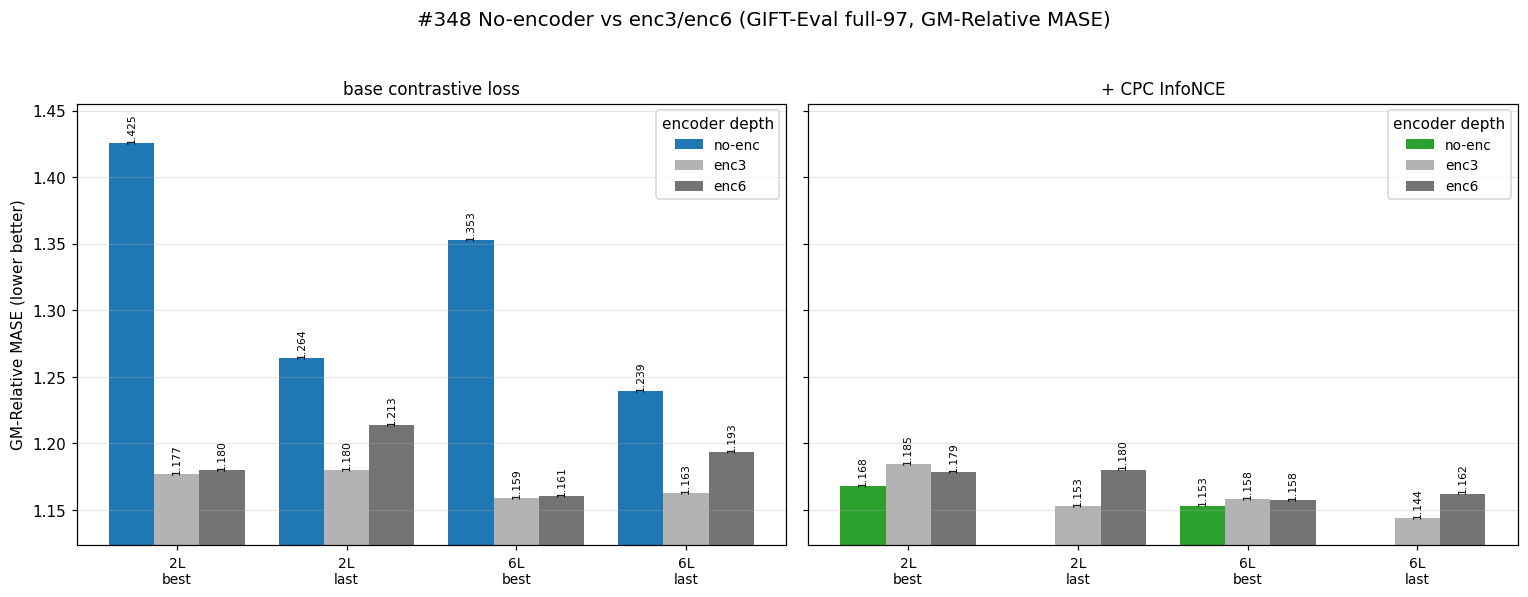
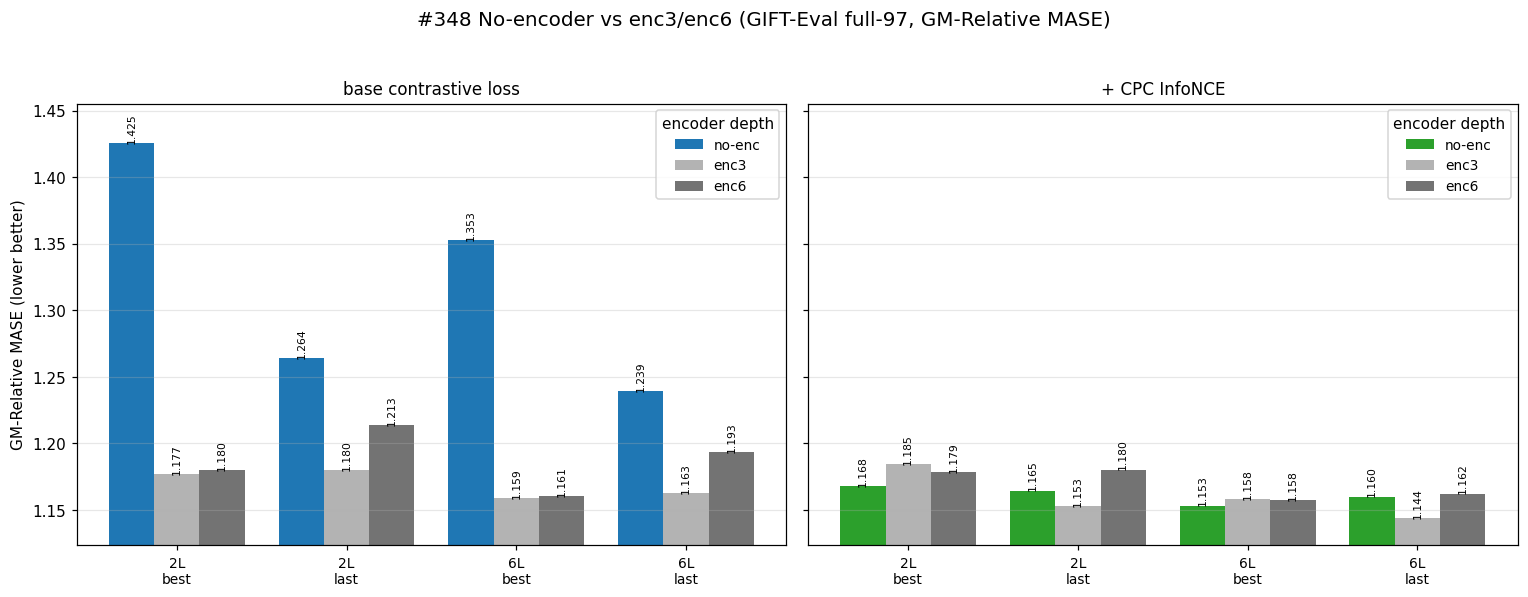
exp(#348): final report — CPC substitutes for the encoder
All 8 cells. Removing the encoder reliably degrades the plain-contrastive arm
(best +0.19-0.25, last +0.05-0.08 GM, all CIs>0); with the CPC term it is neutral
(best 4/4 ns, last 3/4 ns). Adding CPC to the no-encoder backbone improves GM
reliably at every checkpoint (best -0.20/-0.26, last -0.08/-0.10) — vs ~0.02 with
the encoder. Mechanism: the CPC term stays active (~3) without the encoder rather
than collapsing to ~0. Report + final gm-ladder/dynamics plots + gm/pairwise CSVs.

Changed region(s): [[0.6459, 0.8141, 0.7075, 0.9347], [0.8613, 0.8141, 0.9228, 0.9347]]

diff --git a/experiments/2026-06-15_no_encoder_redo/no_encoder_redo.md b/experiments/2026-06-15_no_encoder_redo/no_encoder_redo.md
@@ -54,7 +54,7 @@ GM-Relative MASE (GIFT-Eval full-97); encoder depth 0 = no-encoder (this work),
 | base, **no-enc** | **1.425 / 1.264** | **1.353 / 1.239** |
 | base, enc3 | 1.177 / 1.180 | 1.159 / 1.163 |
 | base, enc6 | 1.180 / 1.213 | 1.161 / 1.193 |
-| +CPC, **no-enc** | **1.168 / _TBD_** | **1.153 / _TBD_** |
+| +CPC, **no-enc** | **1.168 / 1.165** | **1.153 / 1.160** |
 | +CPC, enc3 | 1.185 / 1.153 | 1.158 / 1.144 |
 | +CPC, enc6 | 1.179 / 1.180 | 1.158 / 1.162 |
 
@@ -70,22 +70,64 @@ all reliably worse; the last-checkpoint gaps are smaller but also all above zero
 (+0.05…+0.08).
 
 **With the CPC term, removing the encoder is neutral.** Δ = GM(no-enc +CPC) −
-GM(encoder'd +CPC), best-loss: vs enc3 −0.017 (2L) / −0.005 (6L); vs enc6 −0.011
-(2L) / −0.004 (6L) — all four 90% intervals straddle zero.
+GM(encoder'd +CPC): at best-loss all four 90% intervals straddle zero (vs enc3
+−0.017/−0.005, vs enc6 −0.011/−0.004 for 2L/6L); at the last checkpoint three of
+four straddle zero and the fourth is a marginal +0.016 vs enc3·6L. So the
+no-encoder +CPC backbone sits within noise of its encoder'd counterparts at both
+checkpoints.
 
 **The CPC term is what closes the gap.** Adding CPC to the *no-encoder* backbone
-(base → +CPC) improves best-loss GM by **−0.258 (−0.325, −0.200)** at 2L and
-**−0.199 (−0.250, −0.156)** at 6L — both reliable, and an order of magnitude
-larger than the ~0.02 the same term bought *with* the encoder in #344.
+(base → +CPC) improves GM **reliably at every checkpoint**: best-loss
+**−0.258 (−0.325, −0.200)** at 2L and **−0.199 (−0.250, −0.156)** at 6L; last
+−0.099 (2L) and −0.079 (6L), all 90% intervals below zero. The best-loss effect
+is an order of magnitude larger than the ~0.02 the same term bought *with* the
+encoder in #344.
 
-## Late-training stability
+## Why: without the encoder the CPC term no longer vanishes
 
 ![Training dynamics, log-log. Solid = no-encoder (blue base / red +CPC), dashed =
-enc6 reference (#344).](plots/training_dynamics.png)
+enc6 reference (#344). Panel 2 is the CPC term: the no-encoder +CPC curve (red)
+stays elevated (~3) for the whole run, whereas with the encoder (orange dashed)
+it collapses to ~0 by step ~1,000. Panels 1/6/8 (contrastive reference loss,
+1−R², 1−AUC): the no-encoder +CPC arm (red) sits well below the no-encoder base
+arm (blue) throughout.](plots/training_dynamics.png)
 
-_Last-checkpoint cpc cells completing; this section is filled once the two
-no-encoder +CPC last evals land (does CPC reverse the base arm's best→last
-behaviour without the encoder, as it did with it?)._
+The mechanism is visible in the CPC term itself (panel 2). **With** the encoder
+(#344) the unbounded bilinear `W₁` satisfied next-step prediction almost
+immediately — the term fell below 10⁻³ by step ~1,000, contributed a vanishing
+value, and only nudged the representation (hence its ~0.02 effect). **Without**
+the encoder the same term stays around 3 for the entire run: predicting the next
+patch-embedding from the forecaster context is genuinely harder, so the CPC
+gradient keeps pressuring the representation end-to-end — and the no-encoder
++CPC arm holds a markedly lower contrastive reference loss, lower 1−R² and
+near-perfect retrieval (1−AUC) than the no-encoder base arm throughout. That
+sustained pressure is what lifts the no-encoder backbone back to encoder'd parity.
+
+The checkpoints reflect this. The no-encoder **+CPC** arm is flat from best-loss
+to last (2L 1.168→1.165, 6L 1.153→1.160) — the stability the term also showed
+*with* the encoder. The no-encoder **base** arm behaves differently: its
+best-loss checkpoint is *worse* than its last (2L 1.425→1.264, 6L 1.353→1.239),
+so for this arm the contrastive-loss minimum does not coincide with best
+transfer — but both checkpoints remain far behind every encoder'd and every
++CPC arm.
+
+## What this means
+
+Two takeaways. First, the #344 hypothesis — that removing the encoder denies a
+positional shortcut and *improves* transfer — does not hold: the plain
+contrastive backbone is reliably worse without the encoder, at every head and
+checkpoint. The encoder contributes real transfer value to the contrastive
+objective. Second, that value is **recoverable by the CPC auxiliary alone**: the
+no-encoder +CPC backbone matches the encoder'd +CPC backbones within noise. The
+CPC term and the encoder are, to first order, **substitutes** for one another on
+this recipe — adding either one to the plain contrastive loss reaches the same
+~1.15–1.18 GM band.
+
+*Hypothesis (not tested here): because the CPC term stays active without the
+encoder but vanishes with it (#344), the encoder + CPC combination is largely
+redundant — and a CPC variant that remains active even with the encoder (e.g. a
+bounded/temperatured score, or harder negatives per the side note above) might be
+the lever that pushes past the current parity band.*
 
 ## Protocol
 
